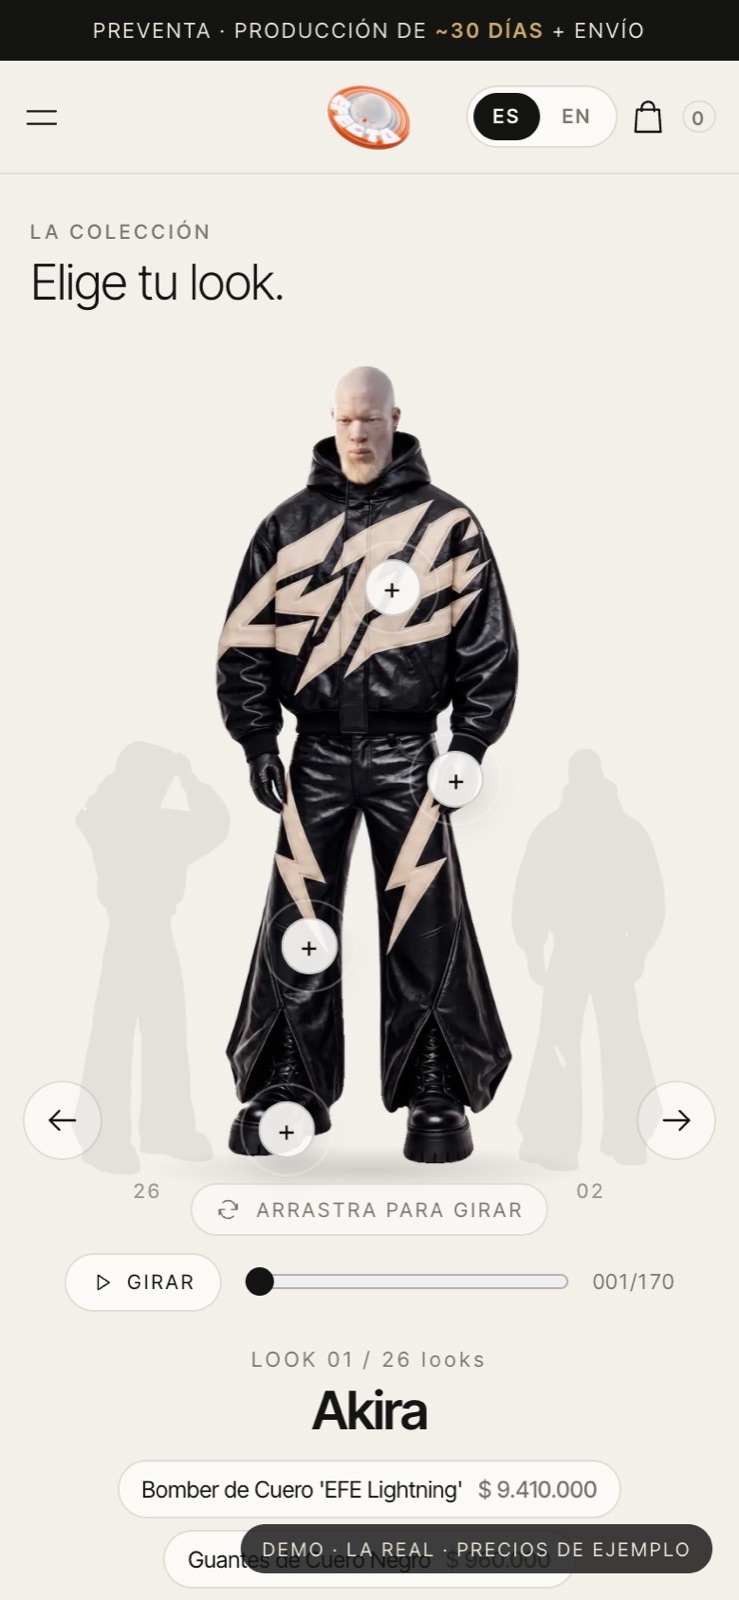
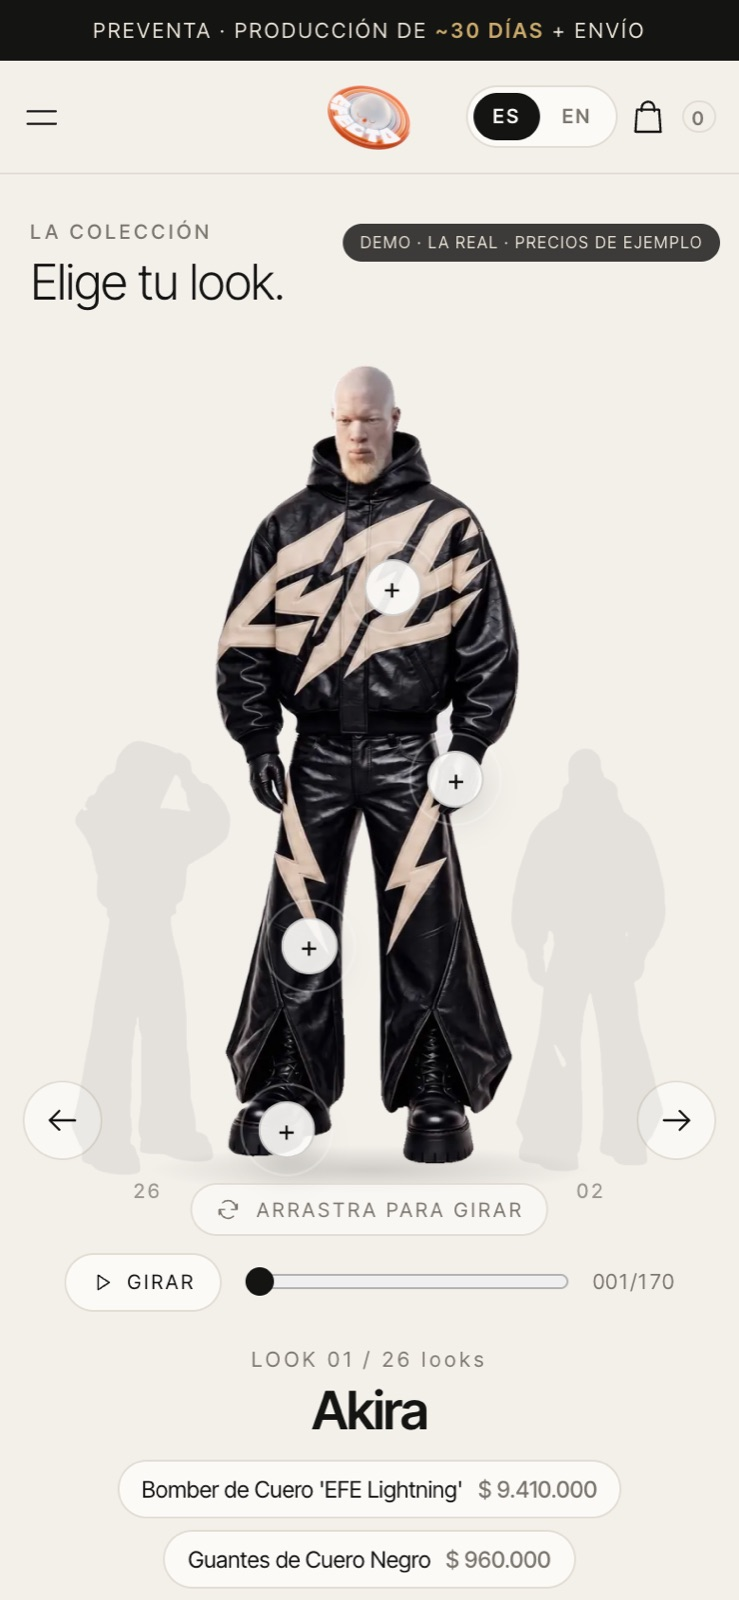
Ajustes mobile y cache-bust

Changed region(s): [[0.3112, 0.9375, 0.9648, 1.0], [0.4668, 0.125, 0.9959, 0.1875]]

diff --git a/index.html b/index.html
@@ -184,11 +184,13 @@
             .extras { grid-template-columns: 1fr 1fr; }
             .devices { grid-template-columns: 1fr 1fr; }
             .devices .dev.web { grid-column: 1 / -1; }
-            .demo-frame { width: 100%; left: 0; transform: none; }
+            .demo-frame { width: min(270px, 78vw); left: 0; transform: none; margin: 8px auto 0; border-radius: 30px; padding: 7px; }
+            .demo-frame img { border-radius: 24px; }
             .demo-frame iframe { display: none; }
             .demo-frame img { display: block; }
-            .frames-strip { flex-wrap: wrap; justify-content: center; }
-            .frames-strip img { height: 64px; }
+            .frames-strip { flex-wrap: nowrap; justify-content: space-between; padding: 14px 12px 10px; }
+            .frames-strip img { height: 74px; }
+            .frames-strip img:nth-child(n+7) { display: none; }
             .need { grid-template-columns: 26px 1fr; }
             .need-d { grid-column: 2; justify-self: start; }
             .inv-row { grid-template-columns: 1fr; gap: 4px; }
@@ -251,11 +253,11 @@
             <h2>Ya lo probamos con AKIRA</h2>
             <p>Tomamos los 170 frames del Look 01, les quitamos el fondo, los optimizamos y los conectamos al visor. Así se va a ver cada uno de los 26 personajes. La demo de abajo funciona: pueden pasar de un look a otro, girar a <span class="brand">AKIRA</span>, abrir la ficha de una prenda y cambiar a la tienda internacional en inglés y dólares.</p>
             <div class="demo-frame">
-                <iframe id="demoFrame" title="Demo del showroom Shopefecto" data-src="demo/?embed&v=1791487922" loading="lazy"></iframe>
-                <img src="cap-web-showroom.jpg" alt="Showroom Shopefecto en computador">
+                <iframe id="demoFrame" title="Demo del showroom Shopefecto" data-src="demo/?embed&v=1791488107" loading="lazy"></iframe>
+                <picture><source media="(max-width: 720px)" srcset="cap-m-showroom.jpg?v=1791488107"><img src="cap-web-showroom.jpg?v=1791488107" alt="Showroom Shopefecto"></picture>
             </div>
             <div class="demo-actions">
-                <a class="btn" href="demo/?v=1791487922" target="_blank" rel="noopener">Abrir la demo completa ↗</a>
+                <a class="btn" href="demo/?v=1791488107" target="_blank" rel="noopener">Abrir la demo completa ↗</a>
                 <span class="demo-tip">Los otros 25 personajes aparecen como siluetas hasta que lleguen sus frames. Precios de ejemplo.</span>
             </div>
         </section>
@@ -265,9 +267,9 @@
             <h2>Web y mobile</h2>
             <p>La mayoría va a llegar desde Instagram, así que el diseño parte del celular: el carrusel se desliza con el dedo y la compra se hace desde una hoja que sube desde abajo.</p>
             <div class="devices">
-                <figure class="dev web"><div class="shot"><img src="cap-web-ficha.jpg" alt="Ficha de producto en computador" loading="lazy"></div><figcaption>Ficha de pieza · computador</figcaption></figure>
-                <figure class="dev phone"><div class="shot"><img src="cap-m-showroom.jpg" alt="Showroom en celular" loading="lazy"></div><figcaption>Showroom</figcaption></figure>
-                <figure class="dev phone"><div class="shot"><img src="cap-m-bag.jpg" alt="Bolsa internacional en celular" loading="lazy"></div><figcaption>Bolsa en USD</figcaption></figure>
+                <figure class="dev web"><div class="shot"><img src="cap-web-ficha.jpg?v=1791488107" alt="Ficha de producto en computador" loading="lazy"></div><figcaption>Ficha de pieza · computador</figcaption></figure>
+                <figure class="dev phone"><div class="shot"><img src="cap-m-showroom.jpg?v=1791488107" alt="Showroom en celular" loading="lazy"></div><figcaption>Showroom</figcaption></figure>
+                <figure class="dev phone"><div class="shot"><img src="cap-m-bag.jpg?v=1791488107" alt="Bolsa internacional en celular" loading="lazy"></div><figcaption>Bolsa en USD</figcaption></figure>
             </div>
         </section>
 

diff --git a/slides.html b/slides.html
@@ -301,10 +301,10 @@ h2{font-size:52px;font-weight:900;letter-spacing:-2px;line-height:1.05;text-alig
         <li><span>Toquen un punto sobre la prenda para abrir la <b>ficha de compra</b>.</span></li>
         <li><span>Cambien a <b>INTL · USD</b> para ver la tienda en inglés y dólares.</span></li>
       </ul>
-      <a class="btn-demo" href="demo/?v=1791487922" target="_blank" rel="noopener">Abrir la demo completa ↗</a>
+      <a class="btn-demo" href="demo/?v=1791488107" target="_blank" rel="noopener">Abrir la demo completa ↗</a>
     </div>
     <div class="laptop" id="laptop">
-      <iframe id="demoFrame" title="Demo del showroom Shopefecto" data-src="demo/?embed&v=1791487922" loading="lazy"></iframe>
+      <iframe id="demoFrame" title="Demo del showroom Shopefecto" data-src="demo/?embed&v=1791488107" loading="lazy"></iframe>
       <div class="demo-cover"><span>Demo interactiva · pruébala aquí</span></div>
     </div>
   </div>

diff --git a/demo/index.html b/demo/index.html
@@ -372,6 +372,7 @@ dialog.drawer.left[open]{animation:slideL .45s var(--ease)}
 }
 @media (prefers-reduced-motion:reduce){*{animation:none!important;transition:none!important}}
 .notes-fab{display:none!important}
+@media(max-width:860px){.demo-badge{top:118px!important;bottom:auto!important;right:10px!important;font-size:8.5px!important;padding:5px 9px!important;letter-spacing:.1em!important}}
 .demo-badge{position:fixed;right:14px;bottom:14px;z-index:30;background:rgba(20,20,18,.82);color:#e9e3d6;font-size:10px;letter-spacing:.14em;text-transform:uppercase;padding:7px 11px;border-radius:999px;pointer-events:none}
 </style>
 </head>
